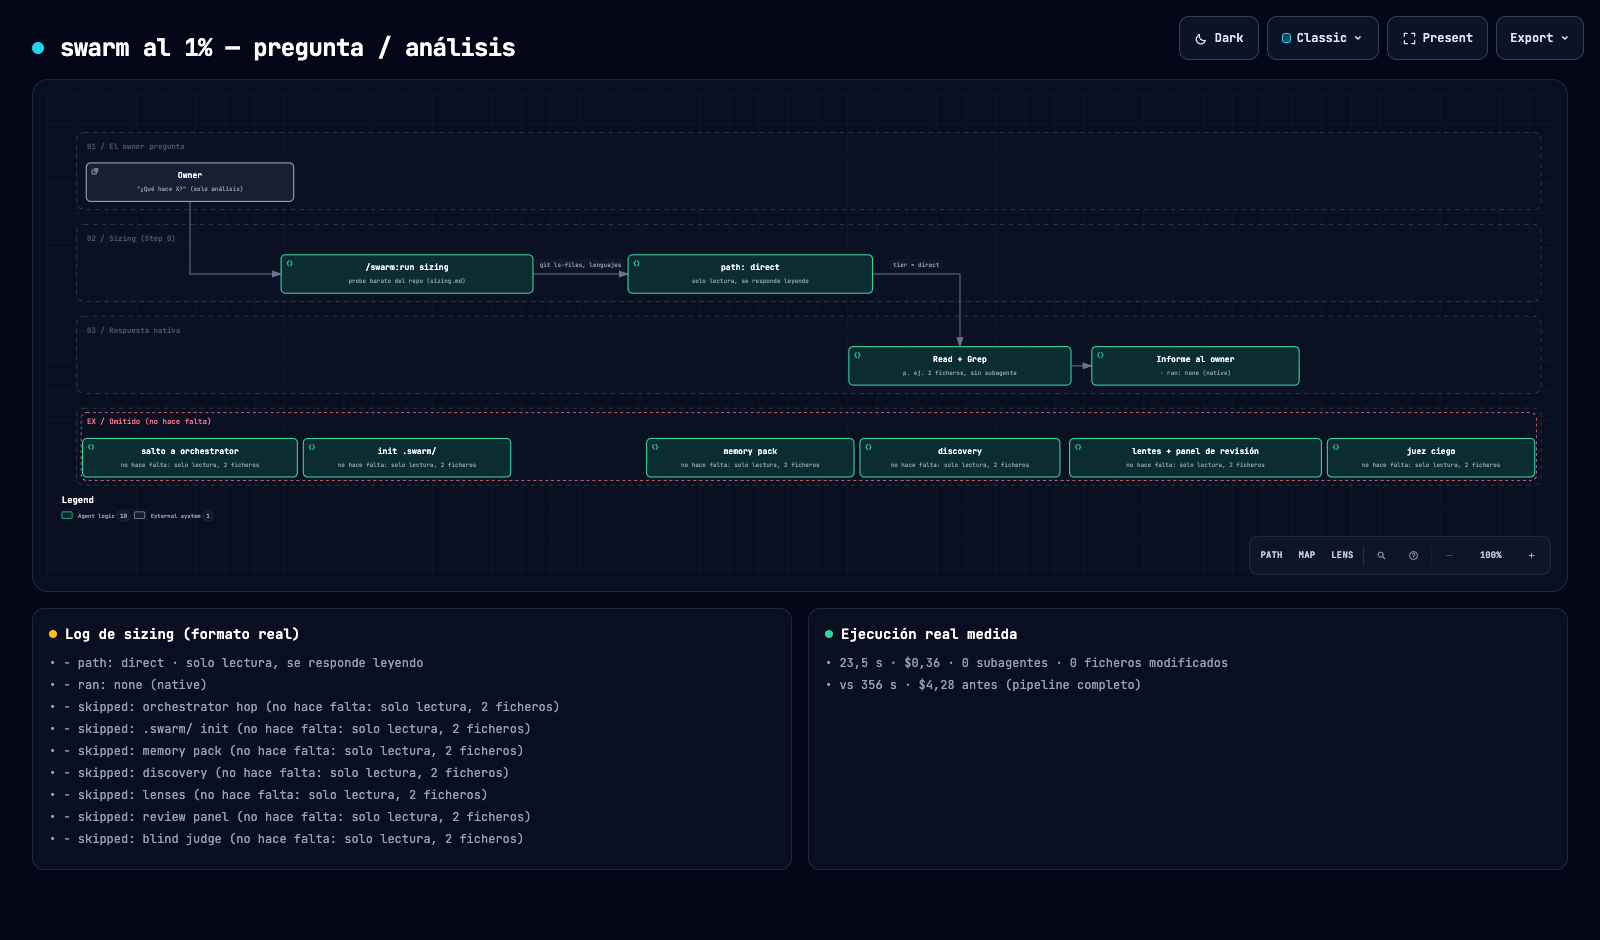
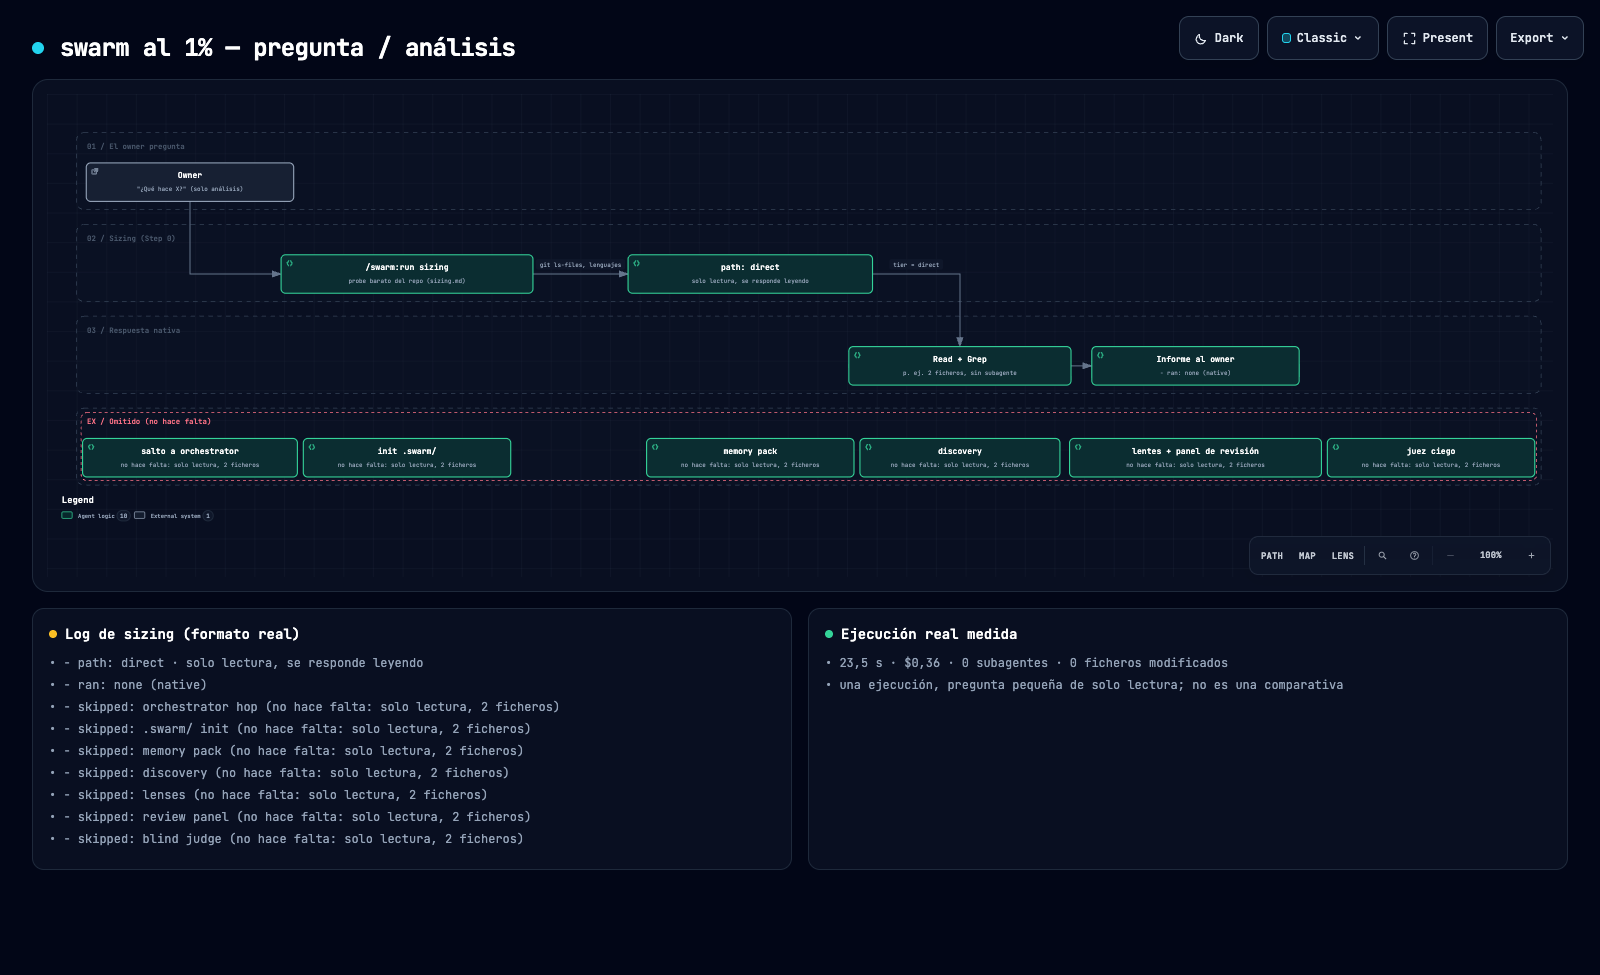
docs: the 1% diagram measured one small question; don't present it as a comparison

diff --git a/docs/diagrams/routing-1pct.es.html b/docs/diagrams/routing-1pct.es.html
@@ -5539,7 +5539,7 @@ OTHER DEALINGS IN THE FONT SOFTWARE.
         </div>
         <ul>
           <li>&bull; 23,5 s · $0,36 · 0 subagentes · 0 ficheros modificados</li>
-          <li>&bull; vs 356 s · $4,28 antes (pipeline completo)</li>
+          <li>&bull; una ejecución, pregunta pequeña de solo lectura; no es una comparativa</li>
         </ul>
       </div>
     </div>

diff --git a/docs/diagrams/routing-1pct.html b/docs/diagrams/routing-1pct.html
@@ -5539,7 +5539,7 @@ OTHER DEALINGS IN THE FONT SOFTWARE.
         </div>
         <ul>
           <li>&bull; 23.5 s · $0.36 · 0 subagents · 0 files changed</li>
-          <li>&bull; vs 356 s · $4.28 before (full pipeline)</li>
+          <li>&bull; one run on a small read-only question; not a comparison</li>
         </ul>
       </div>
     </div>
